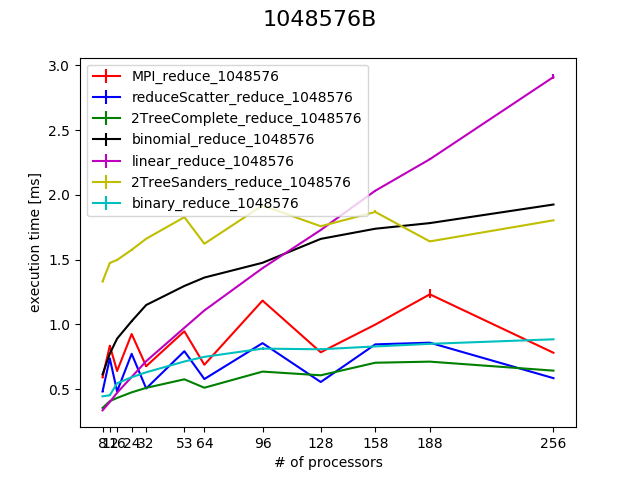
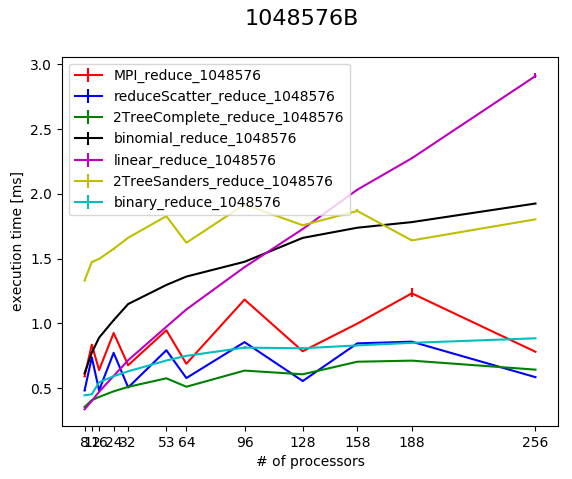
Fixed size of graphs for reduce

diff --git a/NewDraft-2019/collective.tex b/NewDraft-2019/collective.tex
@@ -590,13 +590,13 @@ Message Sizes : 256B, 512B, 1MB, 3MB, 5MB, 7MB
 \centering
 \begin{subfigure}{.25\textwidth}
   \centering
-  \includegraphics[width=0.8\linewidth]{images/Results/reduce_comp_262144B.png}
+  \includegraphics[width=1\linewidth]{images/Results/reduce_comp_262144B.png}
   \caption{Reduce - 256B}
   \label{reduce-selected-256B}
 \end{subfigure}%
 \begin{subfigure}{.25\textwidth}
   \centering
-  \includegraphics[width=0.8\linewidth]{images/Results/reduce_comp_524288B.png}
+  \includegraphics[width=1\linewidth]{images/Results/reduce_comp_524288B.png}
   \caption{Reduce - 512B}
   \label{reduce-selected-512B}
 \end{subfigure}
@@ -608,13 +608,13 @@ Message Sizes : 256B, 512B, 1MB, 3MB, 5MB, 7MB
 \centering
 \begin{subfigure}{.25\textwidth}
   \centering
-  \includegraphics[width=0.8\linewidth]{images/Results/Reduce_all_1048576B.png}
+  \includegraphics[width=1\linewidth]{images/Results/Reduce_all_1048576B.png}
   \caption{Reduce - 1MB}
   \label{reduce-selected-1MB}
 \end{subfigure}%
 \begin{subfigure}{.25\textwidth}
   \centering
-  \includegraphics[width=0.8\linewidth]{images/Results/Reduce_all_3145728B.png}
+  \includegraphics[width=1\linewidth]{images/Results/Reduce_all_3145728B.png}
   \caption{Reduce - 3MB}
   \label{reduce-selected-3MB}
 \end{subfigure}
@@ -626,13 +626,13 @@ Message Sizes : 256B, 512B, 1MB, 3MB, 5MB, 7MB
 \centering
 \begin{subfigure}{.25\textwidth}
   \centering
-  \includegraphics[width=0.8\linewidth]{images/Results/Reduce_all_5242880B.png}
+  \includegraphics[width=1\linewidth]{images/Results/Reduce_all_5242880B.png}
   \caption{Reduce - 5MB}
   \label{reduce-selected-5MB}
 \end{subfigure}%
 \begin{subfigure}{.25\textwidth}
   \centering
-  \includegraphics[width=0.8\linewidth]{images/Results/Reduce_all_7340032B.png}
+  \includegraphics[width=1\linewidth]{images/Results/Reduce_all_7340032B.png}
   \caption{Reduce - 7MB}
   \label{reduce-selected-7MB}
 \end{subfigure}
